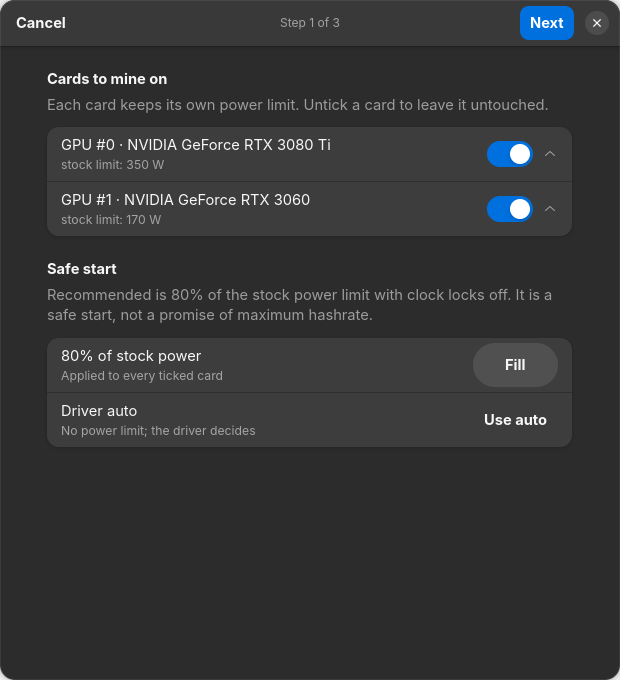
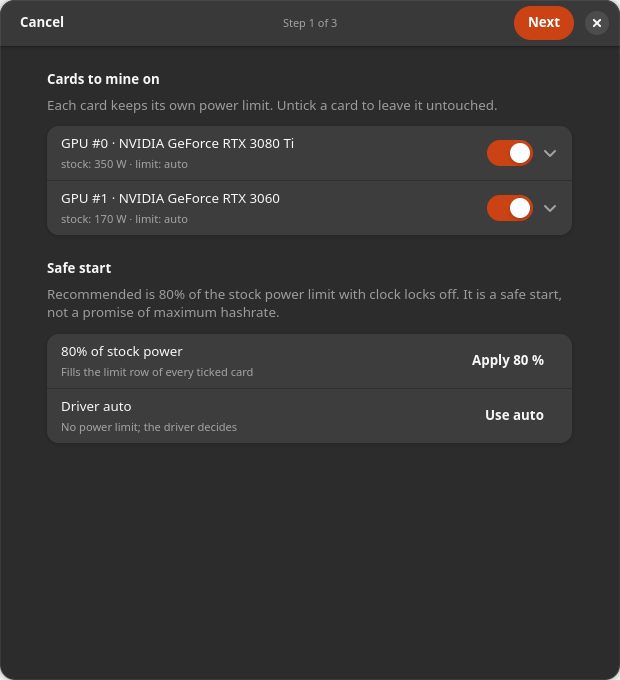
docs: refresh the UX map, guides and screenshots for 0.4.0
Record every surface and navigation rule in docs/ux.md (EN/RU), document the
single install dialog and the missing theme switch (libadwaita must keep its
own stylesheet), refresh README/user guide, regenerate all screenshots with the
fitted 680 px window and the two-column dashboard, and bump to 0.4.0 with
release notes, metainfo and extension metadata.

The screenshot harness now runs its daemon and GUI on a private session bus so
a real or stale Trommel cannot answer the test D-Bus calls, and the tune shot
is captured reliably again.

diff --git a/README.ru.md b/README.ru.md
@@ -53,7 +53,7 @@ Trommel — пульт управления NVIDIA-ригом на GTK4/libadwai
 - **Дружелюбно к агентам** — JSON-конфиг, CLI-диагностика, diff/apply и
   опциональный MCP-сервер для Codex/других агентов. Агент предлагает — вы
   видите diff и подтверждаете.
-- **Английский и русский**, светлая и тёмная темы, виджеты в духе GNOME HIG.
+- **Английский и русский**, системная тема GTK (Yaru, Adwaita), светлая и тёмная схемы, виджеты в духе GNOME HIG.
 
 ## Требования (v1)
 
@@ -68,7 +68,7 @@ AMD/Intel, X11-специфика и не-GNOME окружения в v1 не п
 ### Debian-пакет (рекомендуется для v1)
 
 ```bash
-sudo apt install ./dist/trommel_0.3.0_amd64.deb
+sudo apt install ./dist/trommel_0.4.0_amd64.deb
 ```
 
 Пакет содержит приложение, `trommeld`, polkit-хелпер, desktop-файл, иконки,
@@ -101,9 +101,11 @@ GUI-only Flatpak — это уже другой продукт.
 установлен майнер. Она открывает мастер из трёх шагов для рига на 1–3 карты:
 
 1. **Карты** — отметьте карты для майнинга и задайте каждой лимит питания
-   (**Заполнить** = 80% стокового лимита, **Авто** = без лимита).
-2. **Майнер** — выберите майнер и версию, затем **Скачать** или **Импорт**
-   один раз для всех пресетов.
+   (**Поставить 80 %** заполняет отмеченные карты от стокового лимита,
+   раскрывает их и показывает применённые ватты; **Авто** = без лимита).
+2. **Майнер** — выберите майнер и версию, затем **Установить…**: диалог умеет
+   скачать версию из каталога, принять название версии новее каталога или
+   импортировать локальный бинарник. Одна установка обслуживает все пресеты.
 3. **Кошелёк** — название пресета, кошелёк, воркер, пул и адрес пула. Ничего не
    передаётся сервису и не запускается, пока вы не нажмёте **Запустить
    майнинг**; если майнер уже работает, появится обычный диалог «Применить и
@@ -111,12 +113,20 @@ GUI-only Flatpak — это уже другой продукт.
 
 ![Быстрая настройка](docs/images/setup-en-dark.png)
 
+Пресеты открываются в модальном редакторе, а один и тот же диалог установки
+используют страница «Майнеры», редактор и мастер:
+
+![Редактор пресета](docs/images/preset-editor-en-dark.png)
+
+![Установка майнера](docs/images/miner-install-en-dark.png)
+
 Классический путь тоже работает:
 
 1. Откройте **Trommel** из меню приложений.
-2. Создайте пресет: монета → пул → майнер/версия (импорт или установка) →
-   кошелёк/воркер → профиль GPU → настройки майнера.
-3. Нажмите **Сохранить и применить**. Если майнер остановлен, настройки
+2. Откройте строку пресета: редактор — модальное окно с монетой → пулом →
+   майнером/версией (установка или импорт) → кошельком/воркером → профилем GPU
+   → настройками майнера.
+3. Нажмите **Сохранить** (сохраняет и применяет). Если майнер остановлен, настройки
    сохранятся сразу; если работает — появится диалог перезапуска/остановки.
 4. Нажмите **Запустить**. Trommel снимает стоковый лимит и применяет профиль
    перед запуском майнера.

diff --git a/README.md b/README.md
@@ -29,9 +29,15 @@ arguments are hidden until you turn them on.
 - **Miner-dependent settings** — option descriptors come from the catalogue:
   types, ranges, defaults and CLI flags are chosen for the selected miner
   version. "Reset to miner defaults" is always available.
-- **One install, all presets** — install a miner version once; every preset
-  that references it shows `Installed`. Missing miners show a download/import
-  action and block Start until resolved.
+- **One install, all presets** — a single install dialog owns the version
+  list (catalogue plus your own imported builds), downloads over HTTPS and
+  imports local binaries. Install a version once; every preset that references
+  it shows `Installed`, and missing versions block Start until resolved.
+- **Preset editor as a dialog** — rows open a modal editor with Save/Cancel,
+  duplicate and a confirmation before deleting; no in-page Back navigation.
+- **Appearance** — System, Light or Dark colour scheme applied immediately and
+  remembered across restarts. Trommel uses libadwaita's own styling and the
+  system GTK theme, so it matches other GNOME apps on the same desktop.
 - **Stock snapshot** — before applying power/clocks, Trommel captures each
   GPU's current power limit and restores it on stop. No hardcoded `-pl 350`.
 - **Optional clock locks** — core/memory locks are off by default; enable them
@@ -50,7 +56,7 @@ arguments are hidden until you turn them on.
 - **Agent-friendly** — JSON config, CLI diagnostics, diff/apply commands and an
   optional MCP server for Codex/other agents. The agent proposes; you see the
   diff and approve.
-- **English and Russian UI**, light and dark themes, GNOME HIG-style widgets.
+- **English and Russian UI**, the desktop GTK theme (Yaru, Adwaita), light and dark colour schemes, GNOME HIG-style widgets.
 
 ## Requirements (v1)
 
@@ -65,7 +71,7 @@ AMD/Intel, X11-specific paths and non-GNOME desktops are out of scope for v1.
 ### Debian package (recommended for v1)
 
 ```bash
-sudo apt install ./dist/trommel_0.3.0_amd64.deb
+sudo apt install ./dist/trommel_0.4.0_amd64.deb
 ```
 
 The package contains the app, `trommeld`, the polkit helper, desktop entry,
@@ -98,9 +104,11 @@ A **Quick setup** button appears on the dashboard until a wallet and an installe
 miner are ready. It opens a three-step wizard for a 1–3 card rig:
 
 1. **Cards** — tick the cards to mine on and give each one a power limit
-   (**Fill** = 80% of the stock limit, **Use auto** = no limit).
-2. **Miner** — choose a miner and version, then **Download** or **Import** it
-   once for every preset.
+   (**Apply 80 %** fills the ticked cards from their stock limit, expands them
+   and shows the applied watts; **Use auto** = no limit).
+2. **Miner** — choose a miner and version, then **Install…**: the dialog can
+   download a catalogue version, take a version name that is newer than the
+   catalogue, or import a local binary. One installation serves every preset.
 3. **Wallet** — preset name, wallet, worker, pool and pool address. Nothing is
    sent to the daemon or started until you press **Start mining**; a running
    miner gets the usual Apply and restart / Apply and stop dialog instead of a
@@ -108,12 +116,20 @@ miner are ready. It opens a three-step wizard for a 1–3 card rig:
 
 ![Quick setup](docs/images/setup-en-dark.png)
 
+Presets open in a modal editor, and the same install dialog serves the Miners
+page, the editor and the wizard:
+
+![Preset editor](docs/images/preset-editor-en-dark.png)
+
+![Miner installation](docs/images/miner-install-en-dark.png)
+
 The classic path still works:
 
 1. Open **Trommel** from the application menu.
-2. Create a preset: coin → pool → miner/version (import or install a binary) →
-   wallet/worker → GPU profile → miner options.
-3. Choose **Save and apply**. If the miner is stopped, it is saved immediately;
+2. Open a preset row: the editor is a modal window with coin → pool →
+   miner/version (install or import a binary) → wallet/worker → GPU profile →
+   miner options.
+3. Choose **Save** (it saves and applies). If the miner is stopped, it is saved immediately;
    if it is running, you get the restart/stop dialog.
 4. Press **Start**. Trommel snapshots the stock power limit and applies the
    selected profile before spawning the miner.

diff --git a/docs/ux.ru.md b/docs/ux.ru.md
@@ -21,6 +21,14 @@
 | Удаление пресета | `AdwAlertDialog` | редактор пресета | Подтверждение разрушительного действия |
 | О программе / лог / файловый диалог | стандартные диалоги GNOME | меню, диалог установки | Платформенные поверхности |
 
+## Адаптивная компоновка
+
+Окно открывается в 680×760 с минимумом 380 px. Выше порога переключатель
+страниц находится в заголовке; ниже заголовок скрывается и появляется нижняя
+панель `AdwViewSwitcherBar`. Карточки GPU используют условия `AdwBreakpoint`
+для одной–трёх колонок. У диалогов своя прокрутка и размер, помещающийся на
+небольших экранах. Переключение страниц анимировано через `AdwViewStack`.
+
 ## Правила навигации
 
 1. **Главное окно никогда не подменяет содержимое подэкраном.** Вторичные
@@ -53,6 +61,15 @@
 
 Каталог — удобство, а не ограничение: майнеры обновляются часто, поэтому
 всегда можно ввести версию и вставить ссылку со страницы релиза.
+
+## Тема
+
+Trommel — libadwaita-приложение: оно использует родной стиль виджетов и
+наследует тему GTK рабочего стола (Yaru в Ubuntu, Adwaita в чистом GNOME).
+Переключателя темы внутри приложения намеренно нет — принудительный
+`GTK_THEME` заставляет libadwaita отключить stylesheet и ломает отступы.
+**Настройки → Поведение → Оформление** выбирает только системную/светлую/
+тёмную схему и применяется сразу.
 
 ## Цвет и акценты
 

diff --git a/CHANGELOG.md b/CHANGELOG.md
@@ -3,6 +3,46 @@
 All notable changes to Trommel are documented here. Format follows Keep a
 Changelog; versions use SemVer.
 
+## [0.4.0] - 2026-10-28
+
+### Added
+
+- Presets are edited in a modal window instead of an in-page stack with a Back
+  button: the list opens an editor with Save/Cancel, duplicate, and a
+  confirmation before deleting.
+- One miner install dialog for the Miners page, the preset editor and the
+  quick-setup wizard. It lists catalogue versions plus imported builds, accepts
+  a version name that is newer than the catalogue, downloads over HTTPS with an
+  optional SHA-256 and imports local binaries.
+- Appearance setting (System, Light, Dark) applied immediately.
+- Colour for informational values: hashrate, mining/stopped/offline pill,
+  accepted/rejected shares, pool balance, install state and warnings. Rounded
+  16 px GPU cards and a hero card for the hashrate.
+- UX map in `docs/ux.md` / `docs/ux.ru.md` describing every window and rule.
+- Adaptive layout: the window opens at 680×760 and can shrink to 380 px; the
+  header view switcher is replaced by the bottom bar on narrow windows, GPU
+  cards ask for one to three columns through AdwBreakpoint, and page switches
+  animate.
+
+### Changed
+
+- The Miners page uses compact activatable rows with an installed-versions
+  label and a chevron instead of two large pill buttons per row.
+- Quick setup starts each card from its own override (or driver auto) instead
+  of the default profile, so a 300 W default is not silently applied to a
+  165 W card.
+- "Fill" is now **Apply 80 %**: it fills ticked cards, expands them and writes
+  the applied watts into each row, so the action has a visible result.
+- The rounded action buttons were made compact and consistent, and the old
+  paired pill buttons are gone.
+
+### Fixed
+
+- Deleting a preset asks for confirmation and reports which preset the daemon
+  keeps using.
+- Config schema gains optional `appearance` and `theme` fields; older configs
+  load with safe defaults.
+
 ## [0.3.0] - 2026-10-28
 
 ### Added

diff --git a/docs/ux.md b/docs/ux.md
@@ -21,6 +21,14 @@ when a screen is added, removed or moved.
 | Delete-preset alert | `AdwAlertDialog` | Preset editor | Destructive confirmation |
 | About / log / file chooser | GNOME dialogs | menu, install dialog | Standard platform surfaces |
 
+## Responsive layout
+
+The window opens at 680×760 with a 380 px minimum. Above the breakpoint the
+navigation switcher sits in the header; below it the header title is hidden and
+the bottom `AdwViewSwitcherBar` appears. GPU cards use `AdwBreakpoint`
+conditions for one to three columns. Dialogs have their own scroll area and a
+size that fits small screens. Page changes animate through `AdwViewStack`.
+
 ## Navigation rules
 
 1. **The main window never swaps its content for a sub-screen.** Secondary
@@ -51,6 +59,14 @@ suggested version and a refresh callback. The dialog owns:
 
 The catalogue is a convenience, not a gate: miners release often, so the user
 can always type a version and paste a URL from the upstream release page.
+
+## Theme
+
+Trommel is a libadwaita app: it uses libadwaita's widget styling and inherits
+the desktop GTK theme (Yaru on Ubuntu, Adwaita on stock GNOME). There is no
+per-app theme switch on purpose - forcing `GTK_THEME` makes libadwaita skip its
+stylesheet and breaks padding. **Settings → Behavior → Appearance** only picks
+System/Light/Dark and applies immediately.
 
 ## Colour and emphasis
 

diff --git a/docs/user-guide.ru.md b/docs/user-guide.ru.md
@@ -43,6 +43,19 @@
 пока вы не импортируете/скачаете её или не переключитесь на установленную.
 Удалить майнер, используемый пресетом, нельзя.
 
+## Оформление
+
+**Настройки → Поведение → Оформление** выбирает системную, светлую или тёмную
+схему. Изменение применяется сразу и сохраняется вместе с остальными
+настройками поведения.
+
+Trommel — libadwaita-приложение: оно всегда использует родной стиль виджетов
+libadwaita и наследует тему GTK рабочего стола для цветов (Yaru в Ubuntu,
+Adwaita в чистом GNOME). Переключателя темы внутри приложения намеренно нет:
+принудительный `GTK_THEME` заставляет libadwaita отключить свой stylesheet и
+ломает отступы строк, поэтому тема — это настройка рабочего стола, а не
+приложения.
+
 ## Комиссии
 
 Комиссия разработчика берётся из каталога и фиксирована, если в каталоге не

diff --git a/docs/user-guide.md b/docs/user-guide.md
@@ -43,6 +43,17 @@ makes it visible as `Installed` in every preset. If a preset references a
 missing version, Start is disabled until you import/download it or switch to an
 installed version. Removing a miner that is used by a preset is refused.
 
+## Appearance
+
+**Settings → Behavior → Appearance** selects System, Light or Dark. The change
+applies immediately and is saved with the rest of the behaviour settings.
+
+Trommel is a libadwaita application: it always uses libadwaita's own widget
+styling and inherits the desktop's GTK theme for colours (Yaru on Ubuntu,
+Adwaita on stock GNOME). There is deliberately no per-app theme switch: forcing
+`GTK_THEME` makes libadwaita skip its stylesheet and breaks row spacing, so
+theme changes belong to the desktop, not to the app.
+
 ## Fees
 
 The miner developer fee comes from the catalogue and is fixed unless the

diff --git a/docs/packaging.md b/docs/packaging.md
@@ -11,7 +11,7 @@
 
 ```bash
 ./scripts/package-deb.sh
-sudo apt install ./dist/trommel_0.3.0_amd64.deb
+sudo apt install ./dist/trommel_0.4.0_amd64.deb
 ```
 
 Layout: `/usr/bin/{trommel,trommeld}`, `/usr/libexec/trommel/trommel-oc`,
